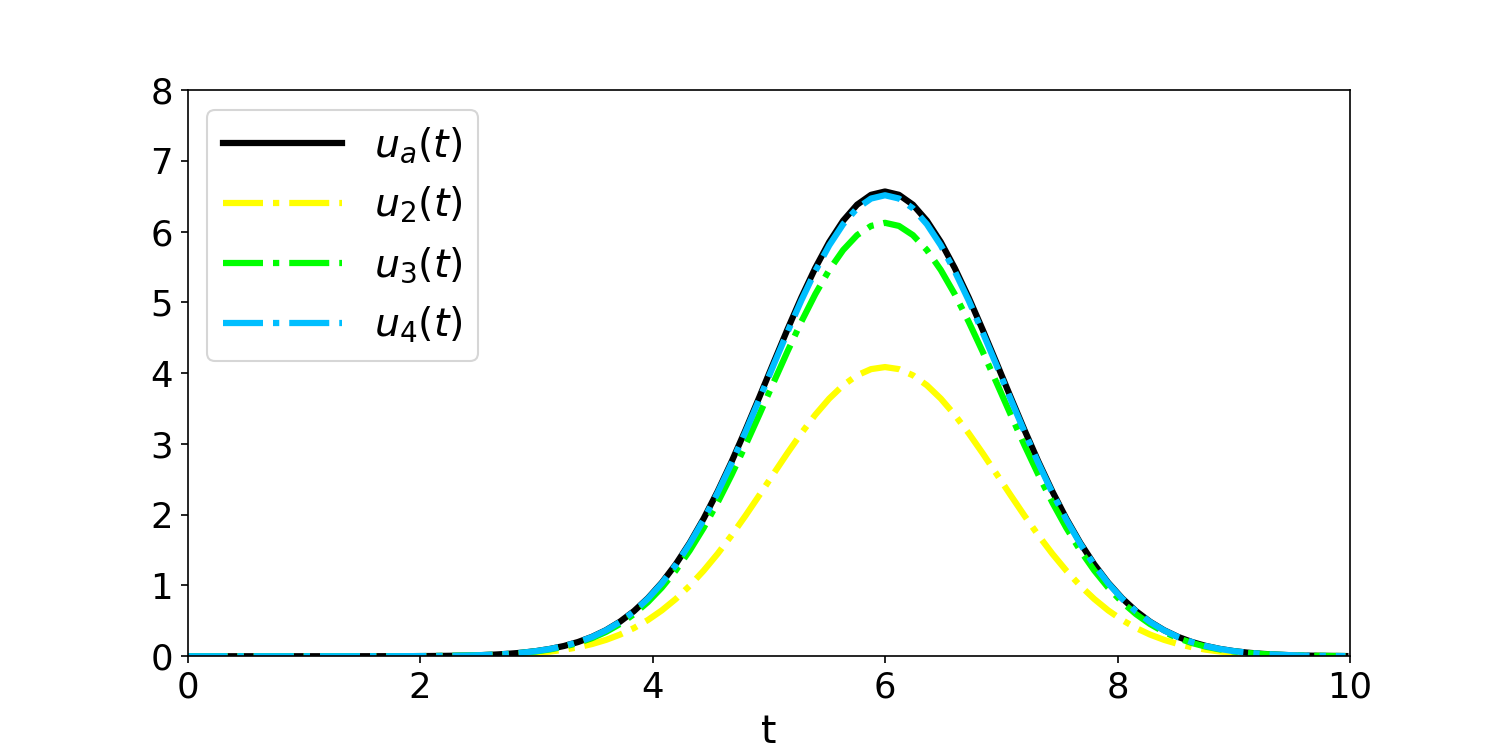
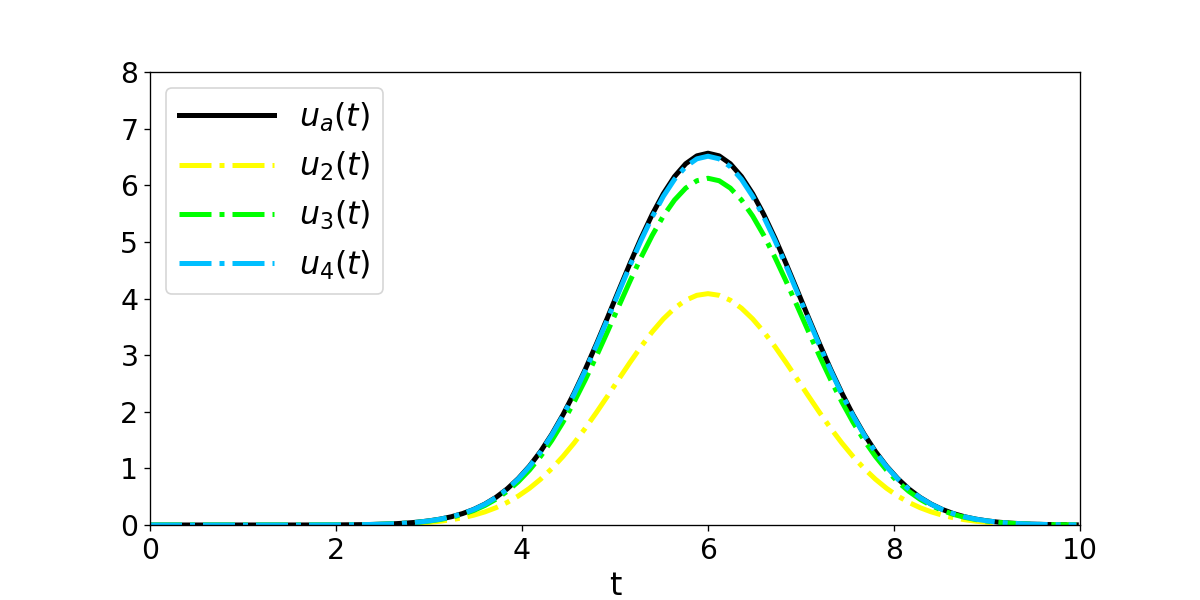
changed figures dpi again

diff --git a/RungeKutta.py b/RungeKutta.py
@@ -59,5 +59,5 @@ plt.xlim([t0,tfinal])
 plt.xticks(fontsize= 17)
 plt.yticks(fontsize= 17) 
 plt.legend(loc=2,fontsize=19,handlelength=3) 
-plt.savefig("RungeKutta.png",dpi=150)
+plt.savefig("RungeKutta.png",dpi=120)
 plt.show()
